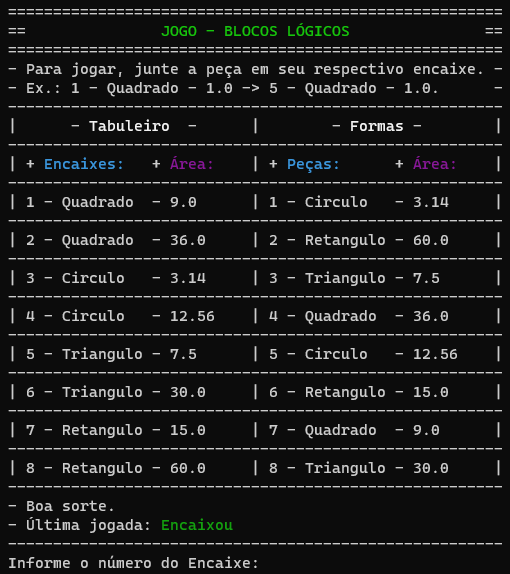
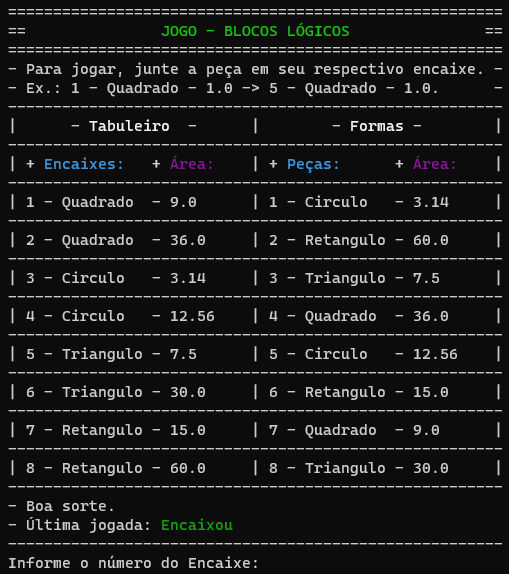
Update images and README

diff --git a/README.md b/README.md
@@ -6,8 +6,8 @@
 
 ## Imagens do jogo em funcionemanto.
 
-<img alt="GameStart" src="./essets/img/GameStart.png" width="48%">
-<img alt="GameOnPlay" src="./essets/img/GameOnPlay.png" width="48%">
+<img alt="GameStart" src="./essets/img/GameStart.png" width="300px">
+<img alt="GameOnPlay" src="./essets/img/GameOnPlay.png" width="300px">
 
 ## Projeto UML
 <img alt="UML Jogo" src="./essets/img/Jogo_UML.png"  width="100%">
